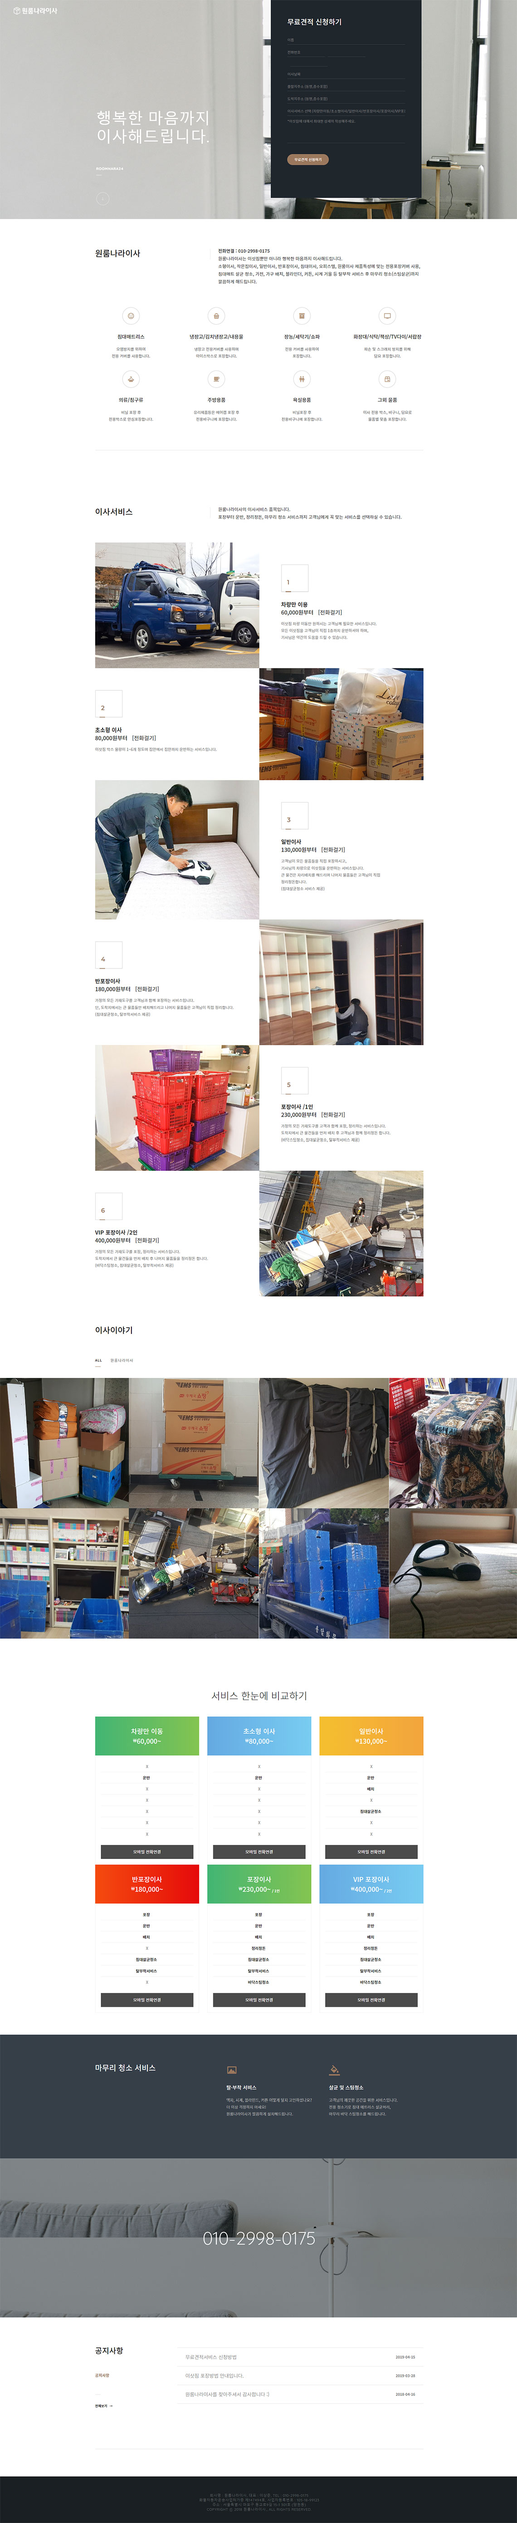
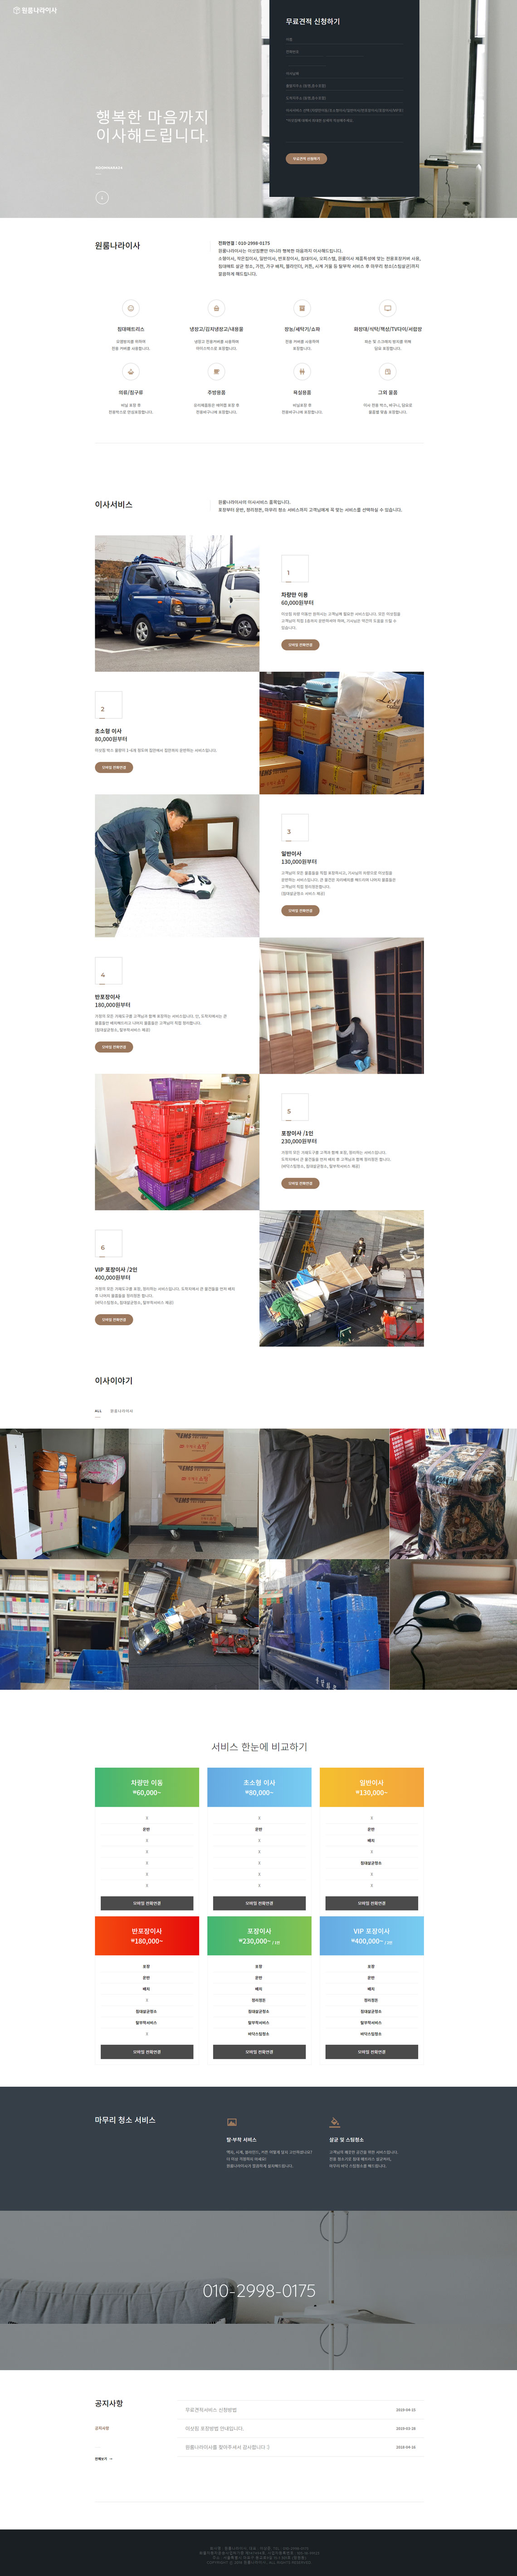
20191026

Changed region(s): [[0.0, 0.0, 1.0, 0.9647], [0.1842, 0.0311, 0.3991, 0.1245], [0.7675, 0.9336, 0.7982, 0.9647]]

diff --git a/index.html b/index.html
@@ -83,10 +83,7 @@
 					<div class="col-lg-10">
 						<div class="section-title text-center">
 							<p class="text-uppercase">my goal</p>
-							<h3>뭐라고 쓸지 고민이 된다...</h3>
-							<!-- <h3>웹 디자인과 퍼블리싱을 공부한 시간 <b>1300일</b>.<br>
-							짧지 않은 시간 동안 <b>퍼블리셔</b>가 되기 위해 그 누구보다 열심히 준비했습니다.<br>
-							앞으로도 배움을 게을리하지 않고 끝없이 발전하는 <b>김영애</b>가 되겠습니다.</h3> -->
+							<h3>배움을 두려워하지 않고 끝없이 발전하는 퍼블리셔가 되겠습니다.</h3>
 						</div>
 					</div>
 				</div>
@@ -271,40 +268,6 @@
 				</div>
 				<div class="row mb-70">
 					<div class="single-publishing col-lg-6 mt-30">
-						<img src="img/publishing_black.png" class="transition basic img-fluid mx-auto d-block mb-20" width="90%" alt="img">
-					</div>
-					<div class="col-lg-6 mt-30">
-						
-						<h3>블랙소르베</h3>
-						<div class="line"></div>
-						
-						<h6 class="mb-10">WORK</h6>
-						<p>jQuery fullpage 플러그인을 적용한 풀페이지 화면<br>
-						CSS Animation, transition을 활용한 애니메이션 효과<br>
-						<!-- 그누보드 게시판 적용<br> -->
-						모듈 팝업창 구현</p>
-						<div class="row">
-							<div class="col-sm-6">
-								<div class="address mt-20">
-									<h6 class="text-uppercase mb-10">PARTICIPATION</h6>
-									<p>퍼블리싱 100%, 디자인 100%</p>
-								</div>
-							</div>
-							<div class="col-sm-6">
-								<div class="address mt-20">
-									<h6 class="text-uppercase mb-10">TYPE</h6>
-									<p>PC</p>
-								</div>
-							</div>
-							<div class="col-sm-9">
-								<a href="https://kya754.github.io/2019_webdesign/05.BR/"target="_blank" class="homepage-btn d-inline-flex align-items-center">홈페이지<span class="fa fa-home"></span></a>
-								<a href="publishing_black.html" class="primary-btn d-inline-flex align-items-center mt-35">자세히 보기<span class="lnr lnr-arrow-right"></span></a>
-							</div>
-						</div>
-					</div>
-				</div>
-				<div class="row mb-70">
-					<div class="single-publishing col-lg-6 mt-30">
 						<img src="img/publishing_udon.png" class="transition basic img-fluid mx-auto d-block mb-20" width="90%" alt="img">
 					</div>
 					<div class="col-lg-6 mt-30">
@@ -317,7 +280,7 @@
 						PHP파일 수정 작업<br>
 						Editor Plus로 FTP 업로드 작업<br>
 						jQuery scroll 이벤트 적용하여 메뉴바 이동<br>
-						폼문서 사용</p>
+						CMS 게시판 기능 사용</p>
 						<div class="row">
 							<div class="col-sm-6">
 								<div class="address mt-20">
@@ -368,6 +331,39 @@
 							<div class="col-sm-9">
 								<a href="http://kya7542.dothome.co.kr/main/"target="_blank" class="homepage-btn d-inline-flex align-items-center">홈페이지<span class="fa fa-home"></span></a>
 								<a href="publishing_seoul.html" class="primary-btn d-inline-flex align-items-center mt-35">자세히 보기<span class="lnr lnr-arrow-right"></span></a>
+							</div>
+						</div>
+					</div>
+				</div>
+				<div class="row mb-70">
+					<div class="single-publishing col-lg-6 mt-30">
+						<img src="img/publishing_black.png" class="transition basic img-fluid mx-auto d-block mb-20" width="90%" alt="img">
+					</div>
+					<div class="col-lg-6 mt-30">
+						
+						<h3>블랙소르베</h3>
+						<div class="line"></div>
+						
+						<h6 class="mb-10">WORK</h6>
+						<p>jQuery fullpage 플러그인을 적용한 풀페이지 화면<br>
+						CSS Animation, transition을 활용한 애니메이션 효과<br>
+						모듈 팝업창 구현</p>
+						<div class="row">
+							<div class="col-sm-6">
+								<div class="address mt-20">
+									<h6 class="text-uppercase mb-10">PARTICIPATION</h6>
+									<p>퍼블리싱 100%, 디자인 100%</p>
+								</div>
+							</div>
+							<div class="col-sm-6">
+								<div class="address mt-20">
+									<h6 class="text-uppercase mb-10">TYPE</h6>
+									<p>PC</p>
+								</div>
+							</div>
+							<div class="col-sm-9">
+								<a href="https://kya754.github.io/2019_webdesign/05.BR/"target="_blank" class="homepage-btn d-inline-flex align-items-center">홈페이지<span class="fa fa-home"></span></a>
+								<a href="publishing_black.html" class="primary-btn d-inline-flex align-items-center mt-35">자세히 보기<span class="lnr lnr-arrow-right"></span></a>
 							</div>
 						</div>
 					</div>

diff --git a/publishing_udon.html b/publishing_udon.html
@@ -78,7 +78,7 @@
 								PHP 파일 수정 작업<br>
 								Editor Plus로 FTP 업로드 작업<br>
 								jQuery scroll 이벤트 적용하여 메뉴바 이동<br>
-								폼문서 사용</p>
+								CMS 게시판 기능 사용</p>
 							</div>
 						</div>
 						<div class="col-lg-2 col-sm-6">
@@ -163,6 +163,28 @@
 						</div>
 						<div class="col-lg-8">
 							<img src="img/publishing/udon_page01.png" class="transition basic img-fluid ml-auto d-block" width="120%" alt="">
+						</div>
+					</div>
+				</div>
+			</section>
+			<section class="section-sub">
+				<div class="container">
+					<div class="row justify-content-center">
+						<div class="col-lg-12">
+							<div>
+								<h3 class="mb-20">CMS 프로그램 사용</h3>
+								<p>그누보드의 게시판 솔루션을 사용하여 매장찾기 페이지를 구성했으며, jQuery로 게시판 열람 애니메이션을 구현했습니다.
+								</p>
+							</div>
+						</div>
+					</div>
+				</div>
+			</section>
+			<section class="section-full gray-bg">
+				<div class="container">
+					<div class="row">
+						<div class="col-lg-12">
+							<img src="img/publishing/udon_page02.jpg" class="transition basic img-fluid mx-auto d-block" alt="">
 						</div>
 					</div>
 				</div>
